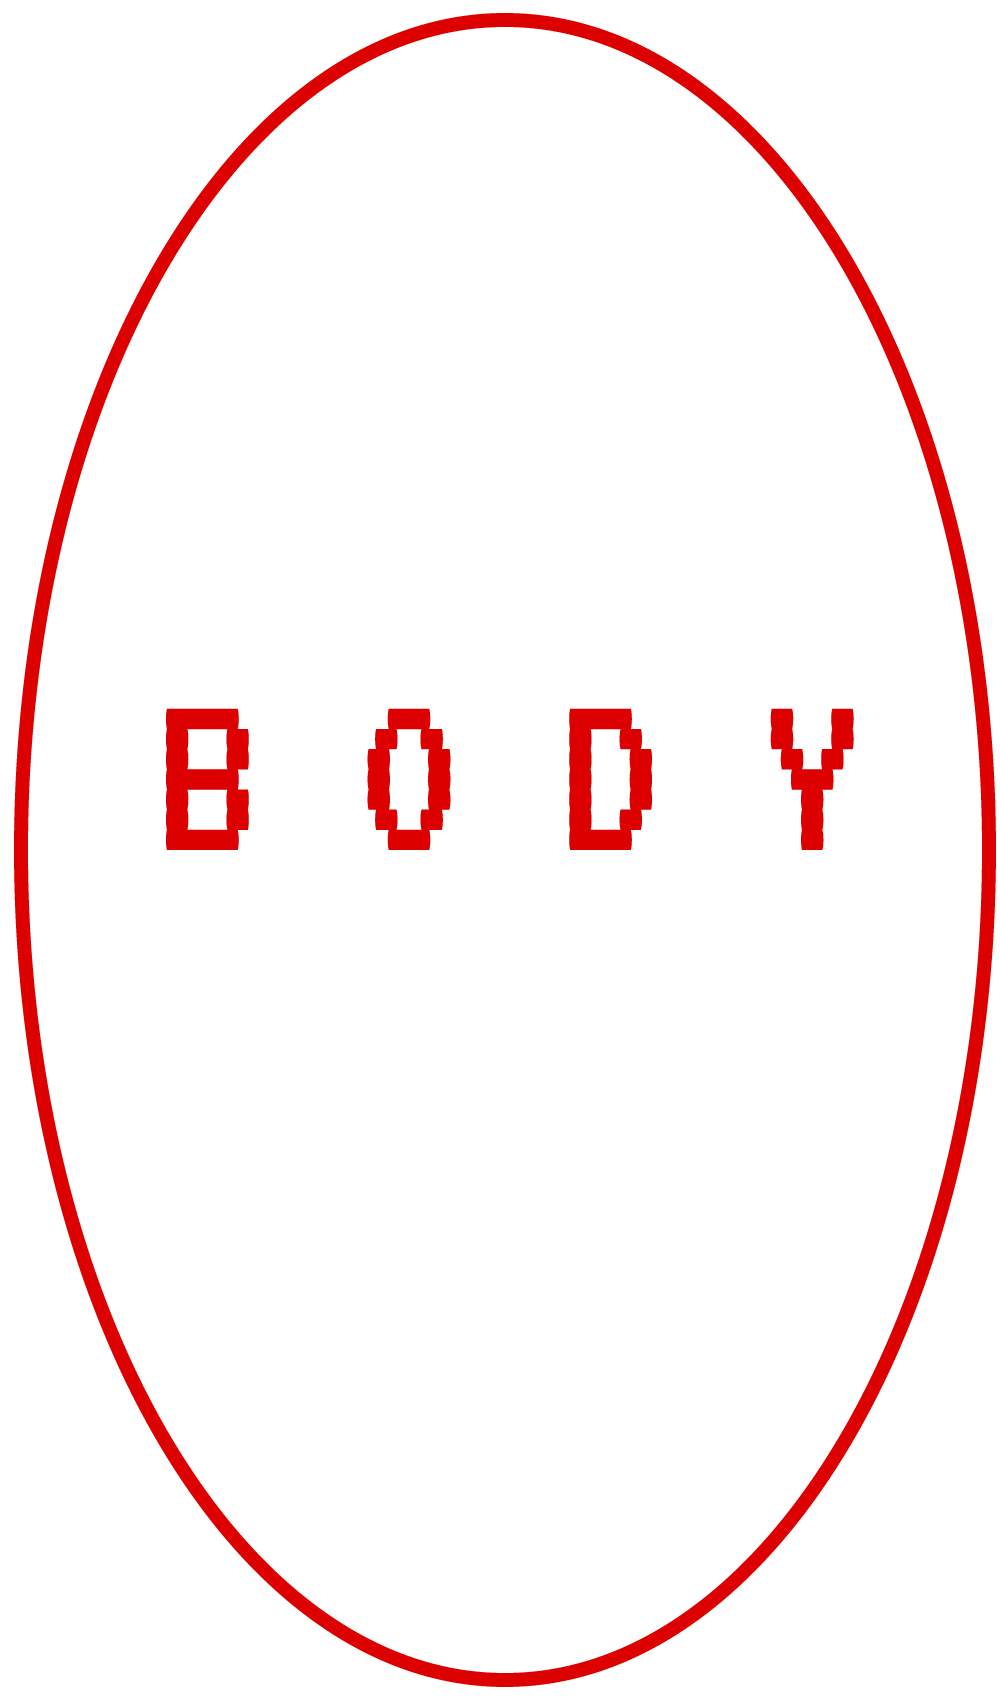
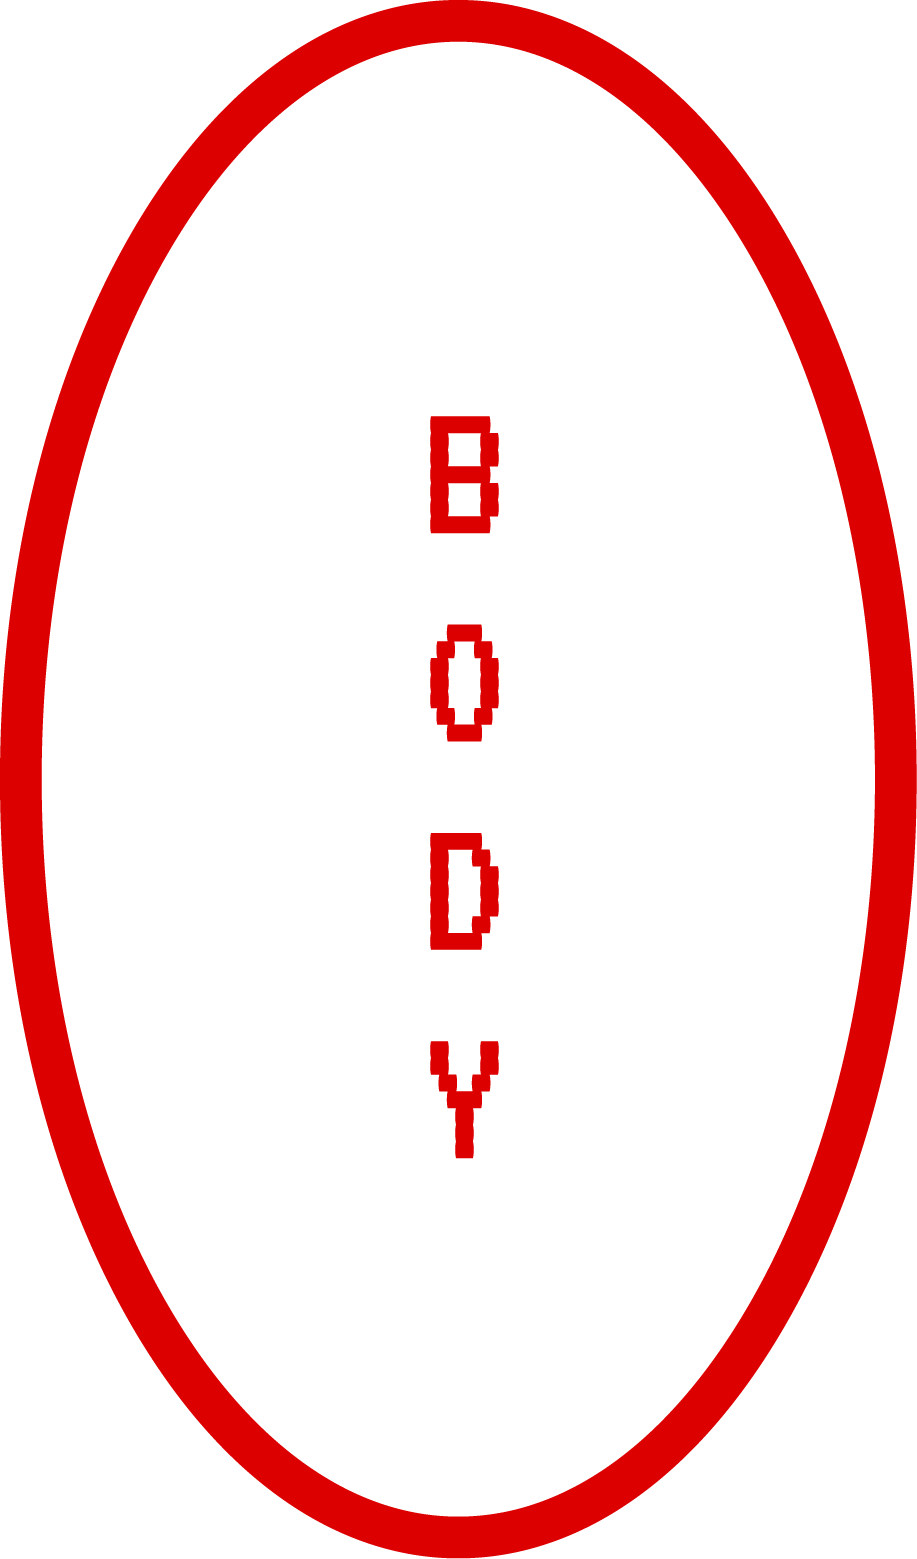
visual changes, fonts, colors, etc

diff --git a/page/singleplayer.html b/page/singleplayer.html
@@ -13,6 +13,7 @@
   	<script src="https://maxcdn.bootstrapcdn.com/bootstrap/3.3.7/js/bootstrap.min.js"></script>
     <!-- Google Fonts -->
     <link href="https://fonts.googleapis.com/css?family=VT323" rel="stylesheet">
+    <link href="https://fonts.googleapis.com/css?family=Patrick+Hand+SC" rel="stylesheet">
     <!-- CSS -->
     <link type="text/css" rel="stylesheet" href="../css/style.css">
     <!-- JS -->
@@ -20,11 +21,14 @@
 </head>
 <body>
 
+	<!-- Used in JS to check whether the game is SP or MP -->
+	<div id="singlePlayer" style="display: none;"></div>
+
 	<!-- Fixed top navbar -->
 	<nav class="navbar navbar-inverse navbar-fixed-top">
 		<div class="container-fluid">
 	    	<div class="navbar-header">
-	    		<!-- Burgermenüü -->
+	    		<!-- Burgermenu for mobile displays -->
 	    		<button type="button" class="navbar-toggle collapsed" data-toggle="collapse" data-target="#bs-example-navbar-collapse-1" aria-expanded="false">
 			        <span class="sr-only">Toggle navigation</span>
 			        <span class="icon-bar"></span>
@@ -41,14 +45,14 @@
 			</div>
 	  	</div>
 	</nav>
-
+	
 	<!-- Page heading -->
 	<h1 id="heading">SINGLE-PLAYER MODE</h1>
 	<!-- Guides under heading -->
 	<h3 id="guide"><i>Loop through different bodyparts by clicking on the corresponding slot</i></h3>
 	<h3 id="opponentGuide"><i>After you click play, the computer will automatically generate an enemy monster for you</i></h3>
 	
-	<!-- Players' monster -->
+	<!-- Players monster -->
 	<div class="container-fluid">
 		<div class="col-sm-6">
 			<h2><span class="underline">YOUR MONSTER</span></h2>
@@ -79,51 +83,50 @@
 				</div>
 			</div>
 
-		<!-- Control buttons -->
-		<div class="row">
-			<div class="col-xs-2 col-xs-offset-4 text-center">
-				<button type="button" class="controlBtn" id="play">Play</button>
-			</div>
-			<div class="col-xs-2 text-center">
-				<button type="button" id="reset" class="controlBtn">Reset</button>
-			</div>
-		</div>
-		</div>
-
-		<!-- Random monster -->
-		<div class="col-sm-6">
-			<h2><span class="underline">ENEMY MONSTER</span></h2>
-			<div class="scale">
-				<div class="row">
-					<div class="col-xs-4 col-xs-offset-4" id="eHead">
-						<img src="../assets/monster/starter/head_0.png" alt="Monster Bodypart">
-					</div>
+			<!-- Control buttons -->
+			<div class="row">
+				<div class="col-xs-2 col-xs-offset-4 text-center">
+					<button type="button" class="controlBtn" id="play">Play</button>
 				</div>
-				<div class="row">
-					<div class="col-xs-4" id="eLeftHand">
-						<img src="../assets/monster/starter/hand_left_0.png" alt="Monster Bodypart">
-					</div>
-					<div class="col-xs-4" id="eChest">
-						<img src="../assets/monster/starter/body_0.png" alt="Monster Bodypart">
-					</div>
-					<div class="col-xs-4" id="eRightHand">
-						<img src="../assets/monster/starter/hand_right_0.png" alt="Monster Bodypart">
-					</div>
-				</div>
-				<div class="row">
-					<div class="col-xs-4 col-xs-offset-2" id="eLeftLeg">
-						<img src="../assets/monster/starter/leg_left_0.png" alt="Monster Bodypart">
-					</div>
-					<div class="col-xs-4" id="eRightLeg">
-						<img src="../assets/monster/starter/leg_right_0.png" alt="Monster Bodypart">
-					</div>
+				<div class="col-xs-2 text-center">
+					<button type="button" id="reset" class="controlBtn">Reset</button>
 				</div>
 			</div>
 		</div>
 
+			<!-- Random monster -->
+			<div class="col-sm-6">
+				<h2><span class="underline">ENEMY MONSTER</span></h2>
+				<div class="scale">
+					<div class="row">
+						<div class="col-xs-4 col-xs-offset-4" id="eHead">
+							<img src="../assets/monster/starter/head_0.png" alt="Monster Bodypart">
+						</div>
+					</div>
+					<div class="row">
+						<div class="col-xs-4" id="eLeftHand">
+							<img src="../assets/monster/starter/hand_left_0.png" alt="Monster Bodypart">
+						</div>
+						<div class="col-xs-4" id="eChest">
+							<img src="../assets/monster/starter/body_0.png" alt="Monster Bodypart">
+						</div>
+						<div class="col-xs-4" id="eRightHand">
+							<img src="../assets/monster/starter/hand_right_0.png" alt="Monster Bodypart">
+						</div>
+					</div>
+					<div class="row">
+						<div class="col-xs-4 col-xs-offset-2" id="eLeftLeg">
+							<img src="../assets/monster/starter/leg_left_0.png" alt="Monster Bodypart">
+						</div>
+						<div class="col-xs-4" id="eRightLeg">
+							<img src="../assets/monster/starter/leg_right_0.png" alt="Monster Bodypart">
+						</div>
+					</div>
+				</div>
+			</div>
+
+		</div>
 	</div>
-
-	<div id="singlePlayer" style="display: none;"></div>
 
 </body>
 </html>

diff --git a/page/multiplayer.html b/page/multiplayer.html
@@ -13,6 +13,7 @@
   	<script src="https://maxcdn.bootstrapcdn.com/bootstrap/3.3.7/js/bootstrap.min.js"></script>
     <!-- Google Fonts -->
     <link href="https://fonts.googleapis.com/css?family=VT323" rel="stylesheet">
+    <link href="https://fonts.googleapis.com/css?family=Patrick+Hand+SC" rel="stylesheet">
     <!-- CSS -->
     <link type="text/css" rel="stylesheet" href="../css/style.css">
     <!-- JS -->
@@ -20,11 +21,14 @@
 </head>
 <body>
 
+	<!-- Used in JS to check whether the game is SP or MP -->
+	<div id="multiPlayer" style="display: none;"></div>
+
 	<!-- Fixed top navbar -->
 	<nav class="navbar navbar-inverse navbar-fixed-top">
 		<div class="container-fluid">
 	    	<div class="navbar-header">
-	    		<!-- Burgermenüü -->
+	    		<!-- Burgermenu for mobile displays -->
 	    		<button type="button" class="navbar-toggle collapsed" data-toggle="collapse" data-target="#bs-example-navbar-collapse-1" aria-expanded="false">
 			        <span class="sr-only">Toggle navigation</span>
 			        <span class="icon-bar"></span>
@@ -48,7 +52,7 @@
 	<h3 id="guide"><i>Loop through different bodyparts by clicking on the corresponding slot</i></h3>
 	<h3 id="opponentGuide"><i>After you click play, the computer will automatically generate an enemy monster for you</i></h3>
 
-	<!-- Players' monster -->
+	<!-- Players monster -->
 	<div class="container-fluid">
 		<div class="col-sm-6" id="playerMonster">
 			<h2><span class="underline">YOUR MONSTER</span></h2>
@@ -94,7 +98,7 @@
 			</div>
 		</div>
 	
-		<!-- Opponent monster -->
+		<!-- Opponents monster -->
 		<div class="col-sm-6" id="enemyMonster">
 			<h2><span class="underline">ENEMY MONSTER</span></h2>
 			<div class="scale">
@@ -122,22 +126,26 @@
 						<img src="../assets/monster/starter/leg_right_0.png" alt="Monster Bodypart">
 					</div>
 				</div>
+
+				<!-- Buttons that appear after a battle has commenced -->
+				<div class="row">
+					<div class="col-sm-4 col-sm-offset-4" id="inFightButtons">
+						<button type="button" id="backButton" class="controlBtn">Back to opponent selection</button>
+					</div>
+				</div>
+
 			</div>
 		</div>
 		
+		<!-- Listview of available opponents -->
 		<div class="col-sm-6" id="opponentList">
+			
 		</div>
 
-		<!-- inFightButtons -->
-		<div class="row">
-			<div class="col-sm-12" id="inFightButtons">
-				<button type="button" id="backButton" class="controlBtn">Back</button>
-			</div>
-		</div>
+		<!-- Buttons that appear after a battle has commenced -->
+
 
 	</div>
-
-	<div id="multiPlayer" style="display: none;"></div>
 
 </body>
 </html>

diff --git a/page/index.html b/page/index.html
@@ -13,9 +13,10 @@
   	<script src="https://maxcdn.bootstrapcdn.com/bootstrap/3.3.7/js/bootstrap.min.js"></script>
     <!-- Google Fonts -->
     <link href="https://fonts.googleapis.com/css?family=VT323" rel="stylesheet">
+    <link href="https://fonts.googleapis.com/css?family=Patrick+Hand+SC" rel="stylesheet">
     <!-- CSS -->
     <link type="text/css" rel="stylesheet" href="../css/style.css">
-		<!-- JS -->
+	<!-- JS -->
     <script src="../js/universal.js"></script>
 </head>
 <body>
@@ -24,7 +25,7 @@
 	<nav class="navbar navbar-inverse navbar-fixed-top">
 		<div class="container-fluid">
 	    	<div class="navbar-header">
-	    		<!-- Burgermenüü -->
+	    		<!-- Burgermenu for mobile displays -->
 	    		<button type="button" class="navbar-toggle collapsed" data-toggle="collapse" data-target="#bs-example-navbar-collapse-1" aria-expanded="false">
 			        <span class="sr-only">Toggle navigation</span>
 			        <span class="icon-bar"></span>
@@ -42,38 +43,5 @@
 	  	</div>
 	</nav>
 
-	<div class="col-sm-6">
-		<div class="row">
-			<div class="col-xs-4 col-xs-offset-4">
-				<div class="playerCreature" id="pHead"></div>
-			</div>
-		</div>
-		<div class="row">
-			<div class="col-xs-4">
-				<div class="playerCreature" id="pLeftHand"></div>
-			</div>
-			<div class="col-xs-4">
-				<div class="playerCreature" id="pChest"></div>
-			</div>
-			<div class="col-xs-4">
-				<div class="playerCreature" id="pRightHand"></div>
-			</div>
-		</div>
-		<div class="row">
-			<div class="col-xs-4 col-xs-offset-2">
-				<div class="playerCreature" id="pLeftLeg"></div>
-			</div>
-			<div class="col-xs-4">
-				<div class="playerCreature" id="pRightLeg"></div>
-			</div>
-		</div>
-		<div class="row">
-			<div class="col-xs-4 col-xs-offset-2 text-center">
-			</div>
-			<div class="col-xs-4 text-center">
-			</div>
-		</div>
-	</div>
-	
 </body>
 </html>

diff --git a/css/style.css b/css/style.css
@@ -73,7 +73,7 @@ img {
 
 /* Navbar */
 .navbar-brand, .nav.navbar-nav.navbar-right {
-    font-family: 'VT323', monospace;
+    font-family: 'Patrick Hand SC', cursive;
     font-size: 2em;
 }
 
@@ -88,8 +88,8 @@ img {
 }
 
 .navbar-inverse .navbar-nav>.active>a, .navbar-inverse .navbar-nav>.active>a:focus, .navbar-inverse .navbar-nav>.active>a:hover {
-	background-color: #fff;
-	color: #000;
+	background-color: #dc0000;
+	color: #fff;
 }
 
 /* Adds filters to loosing bodyparts */
@@ -111,12 +111,17 @@ img {
 
 .form-group {
     margin: 0;
-    margin-top: 5px;
+    margin-top: 1em;
 }
 
 /* Fight button that starts combat in multiplayer */
 .fightButton {
     margin-right: 1em;
+}
+
+/* Buttons that appear after a battle has started in multiplayer mode */
+#inFightButtons {
+    
 }
 
 /* List of available opponents on multiplayer page */
